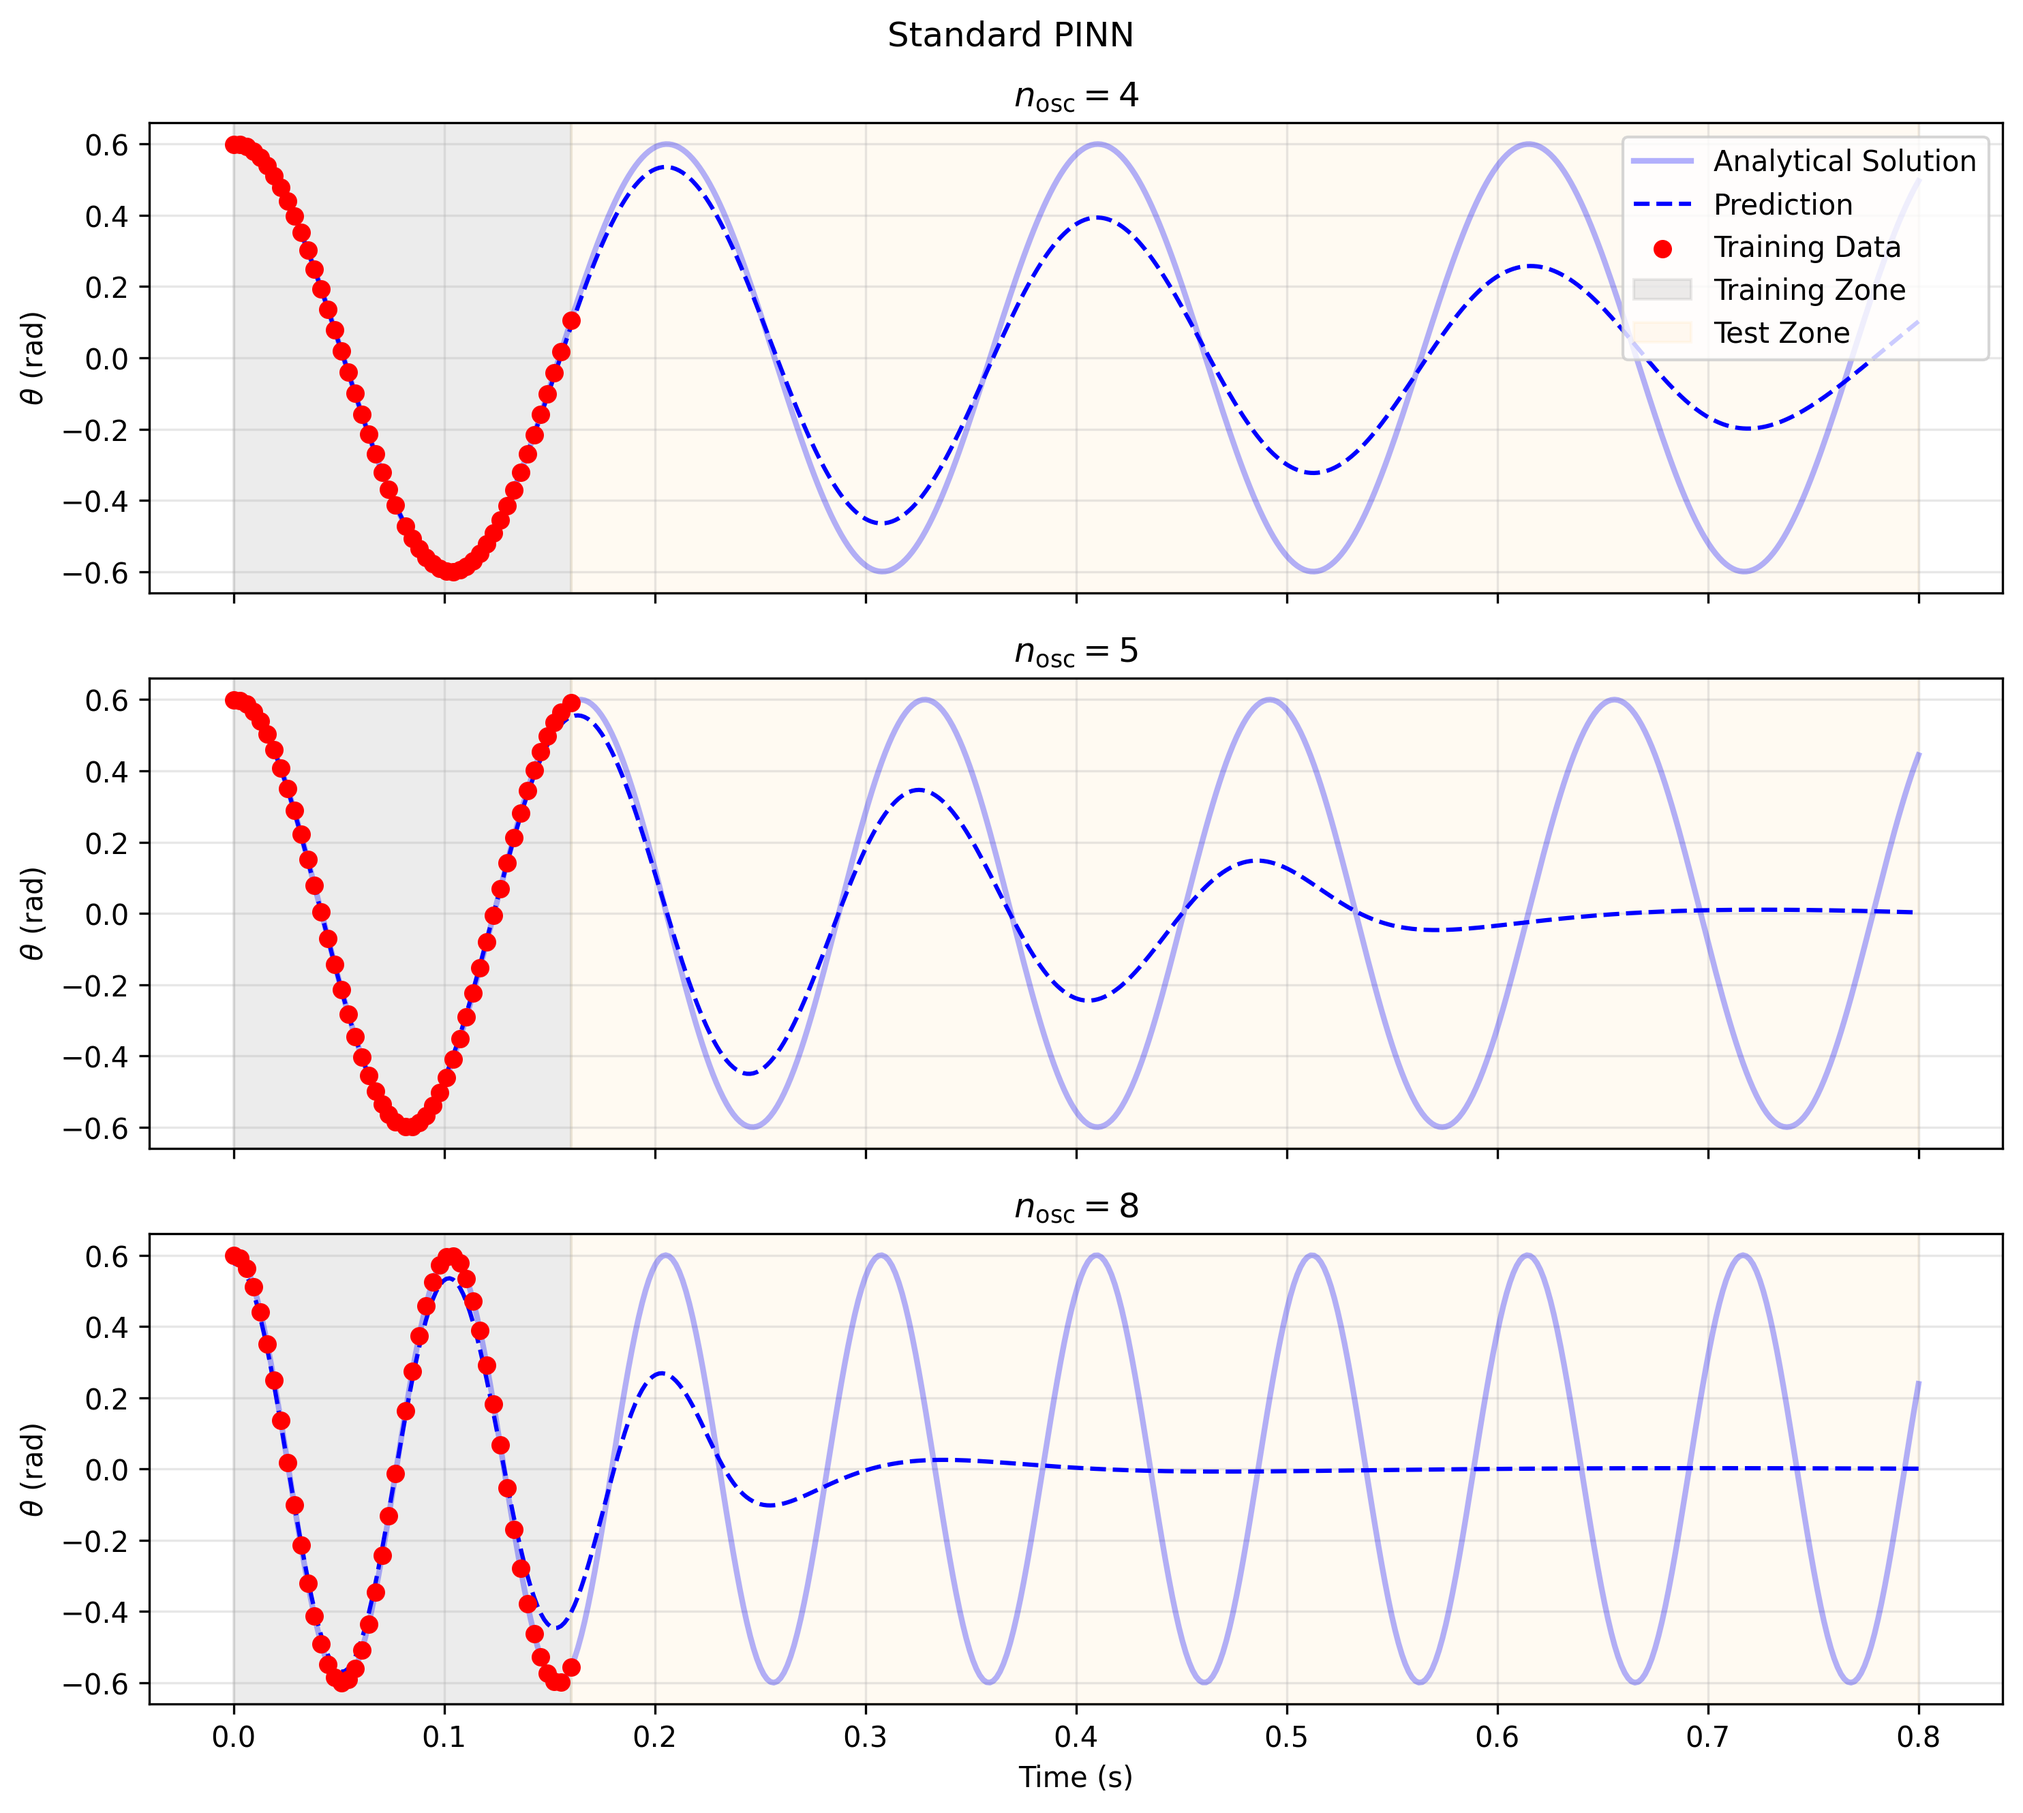
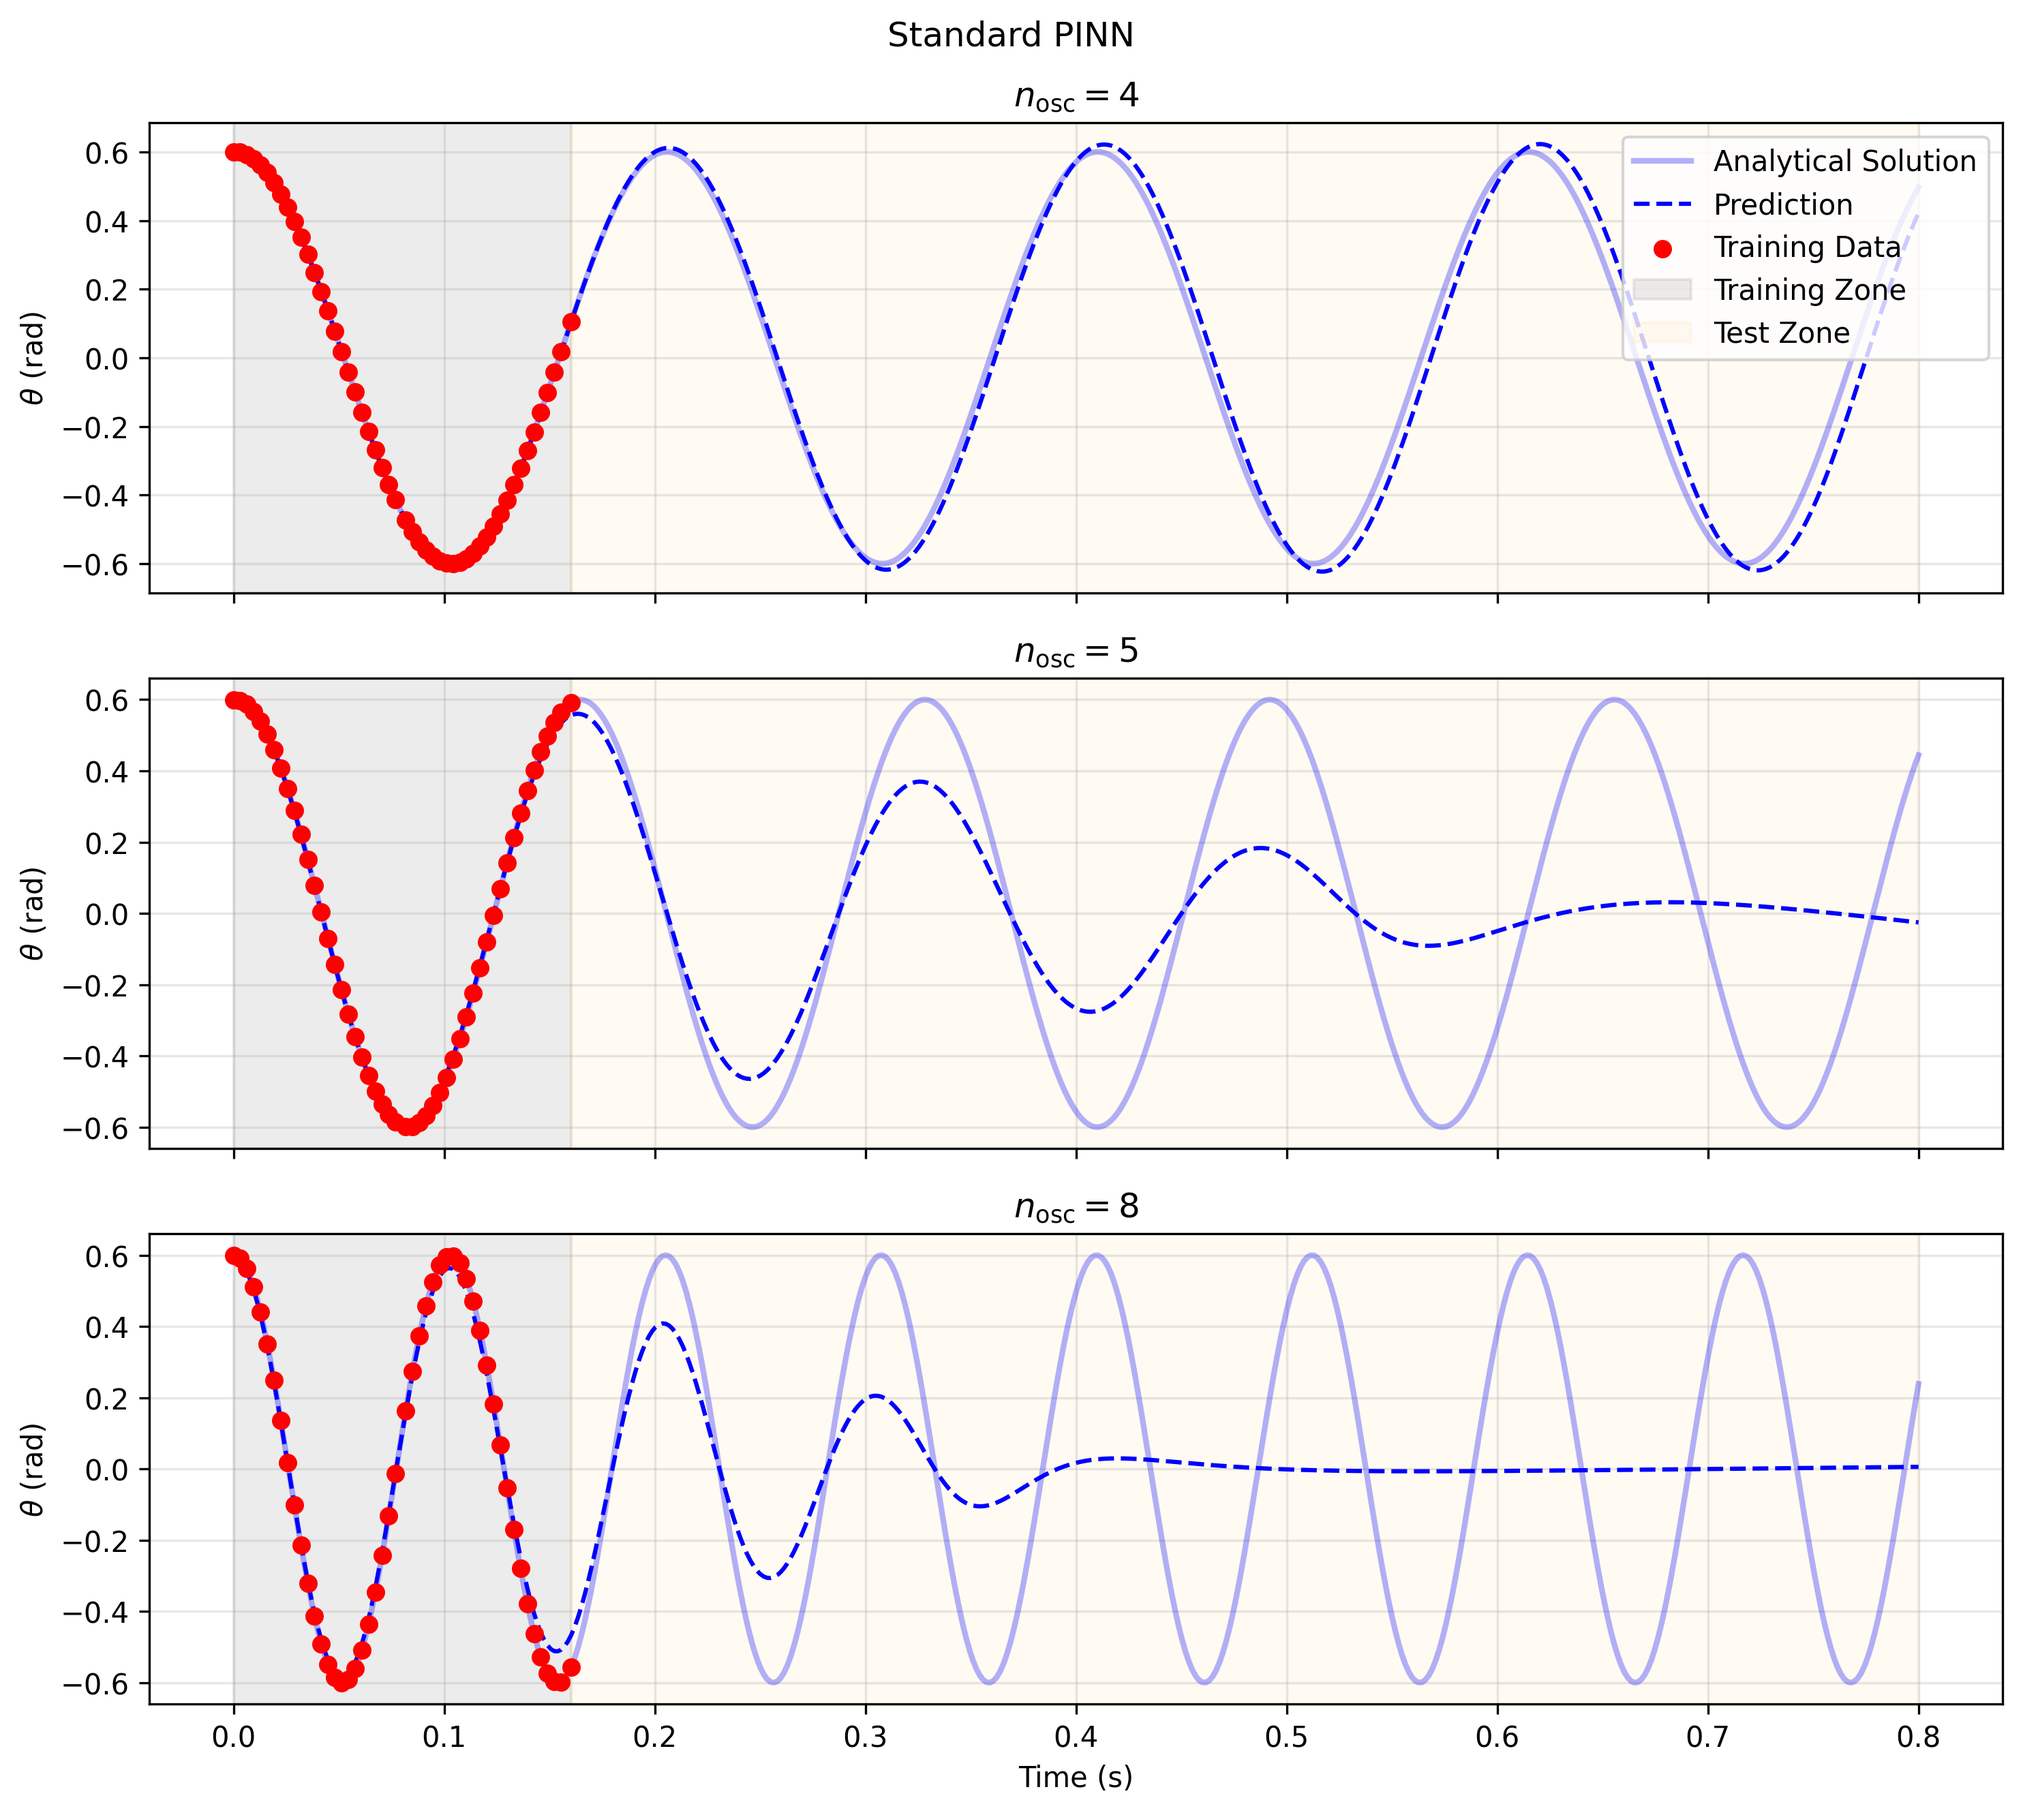
refactor: added more training epochs to standard pinn (simple pendulum)

diff --git a/simple_pendulum/main.py b/simple_pendulum/main.py
@@ -34,7 +34,7 @@ def main():
     n_osc_list_pinn_std = [4,5,8]
     for n in n_osc_list_pinn_std:
         print(f"\n-> Training PINN (without SIREN) for {n} oscillations...")
-        model = PendulumPINN(theta0, n_osc=n, trn_pts=trn_pts, trn_part=trn_part, t_phys_pts=t_phys_pts, epochs=20000, use_siren=False)
+        model = PendulumPINN(theta0, n_osc=n, trn_pts=trn_pts, trn_part=trn_part, t_phys_pts=t_phys_pts, epochs=30000, use_siren=False)
         model.train()
         results_pinn_std.append(model.get_plot_data())
         
